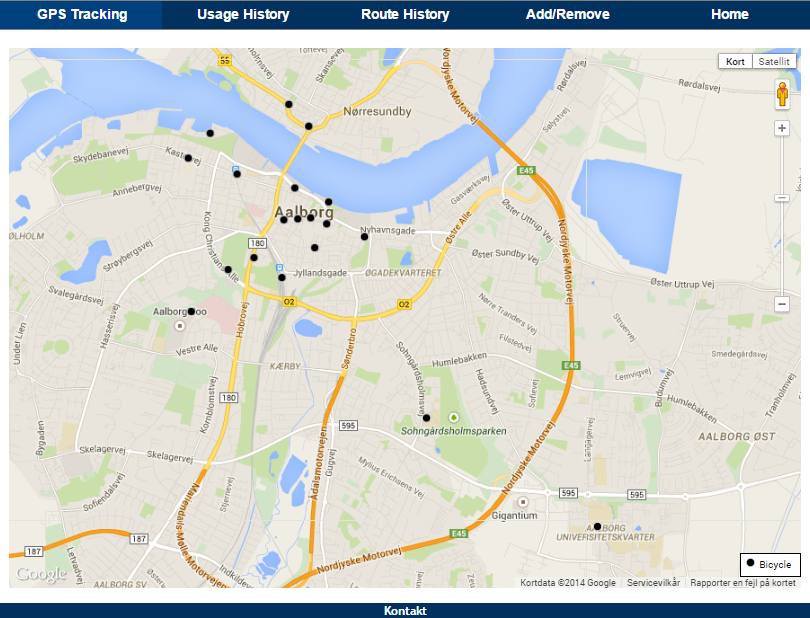
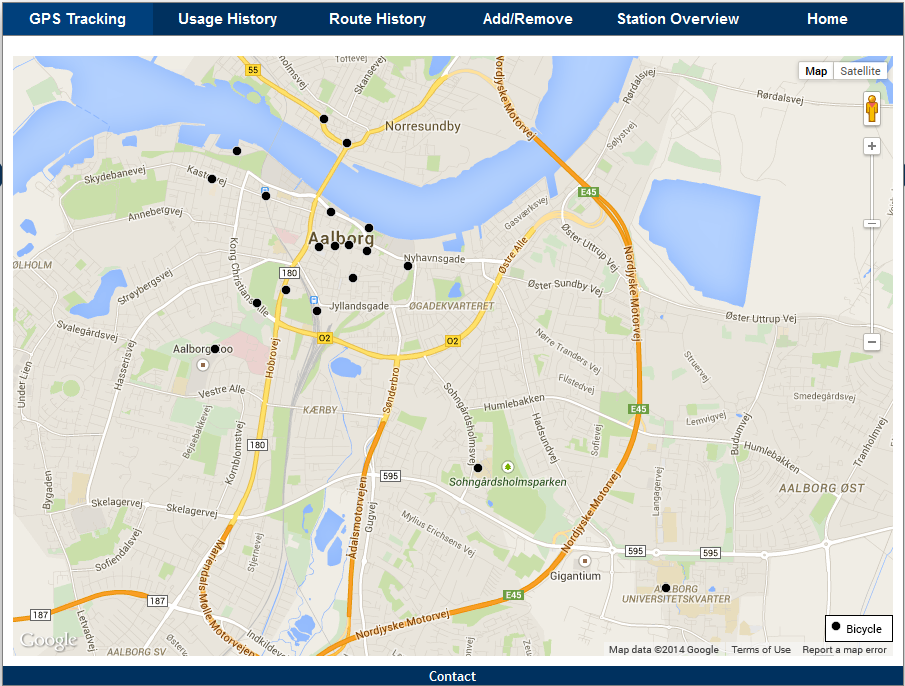
Write about UI in implementation and mention that it was influenced by usability tests. Update image.

diff --git a/Report/Src/Implementation/UI.tex b/Report/Src/Implementation/UI.tex
@@ -1,5 +1,6 @@
 \section{User Interface}
-Based on the website prototypes in \secref{sec:prototype}, a user interface is implemented.
+Based on the website prototypes in \secref{sec:prototype}, a user interface is implemented. 
+This user interface is then iterated upon based on the usability test, what follows is the final result based on these iterations. 
 As can be seen from the prototype, the website has many windows, so only the some essential ones are shown.
 The first we look at is the start page where an admin is logged in, which can be seen in \figref{fig:UI-overview}.
 
